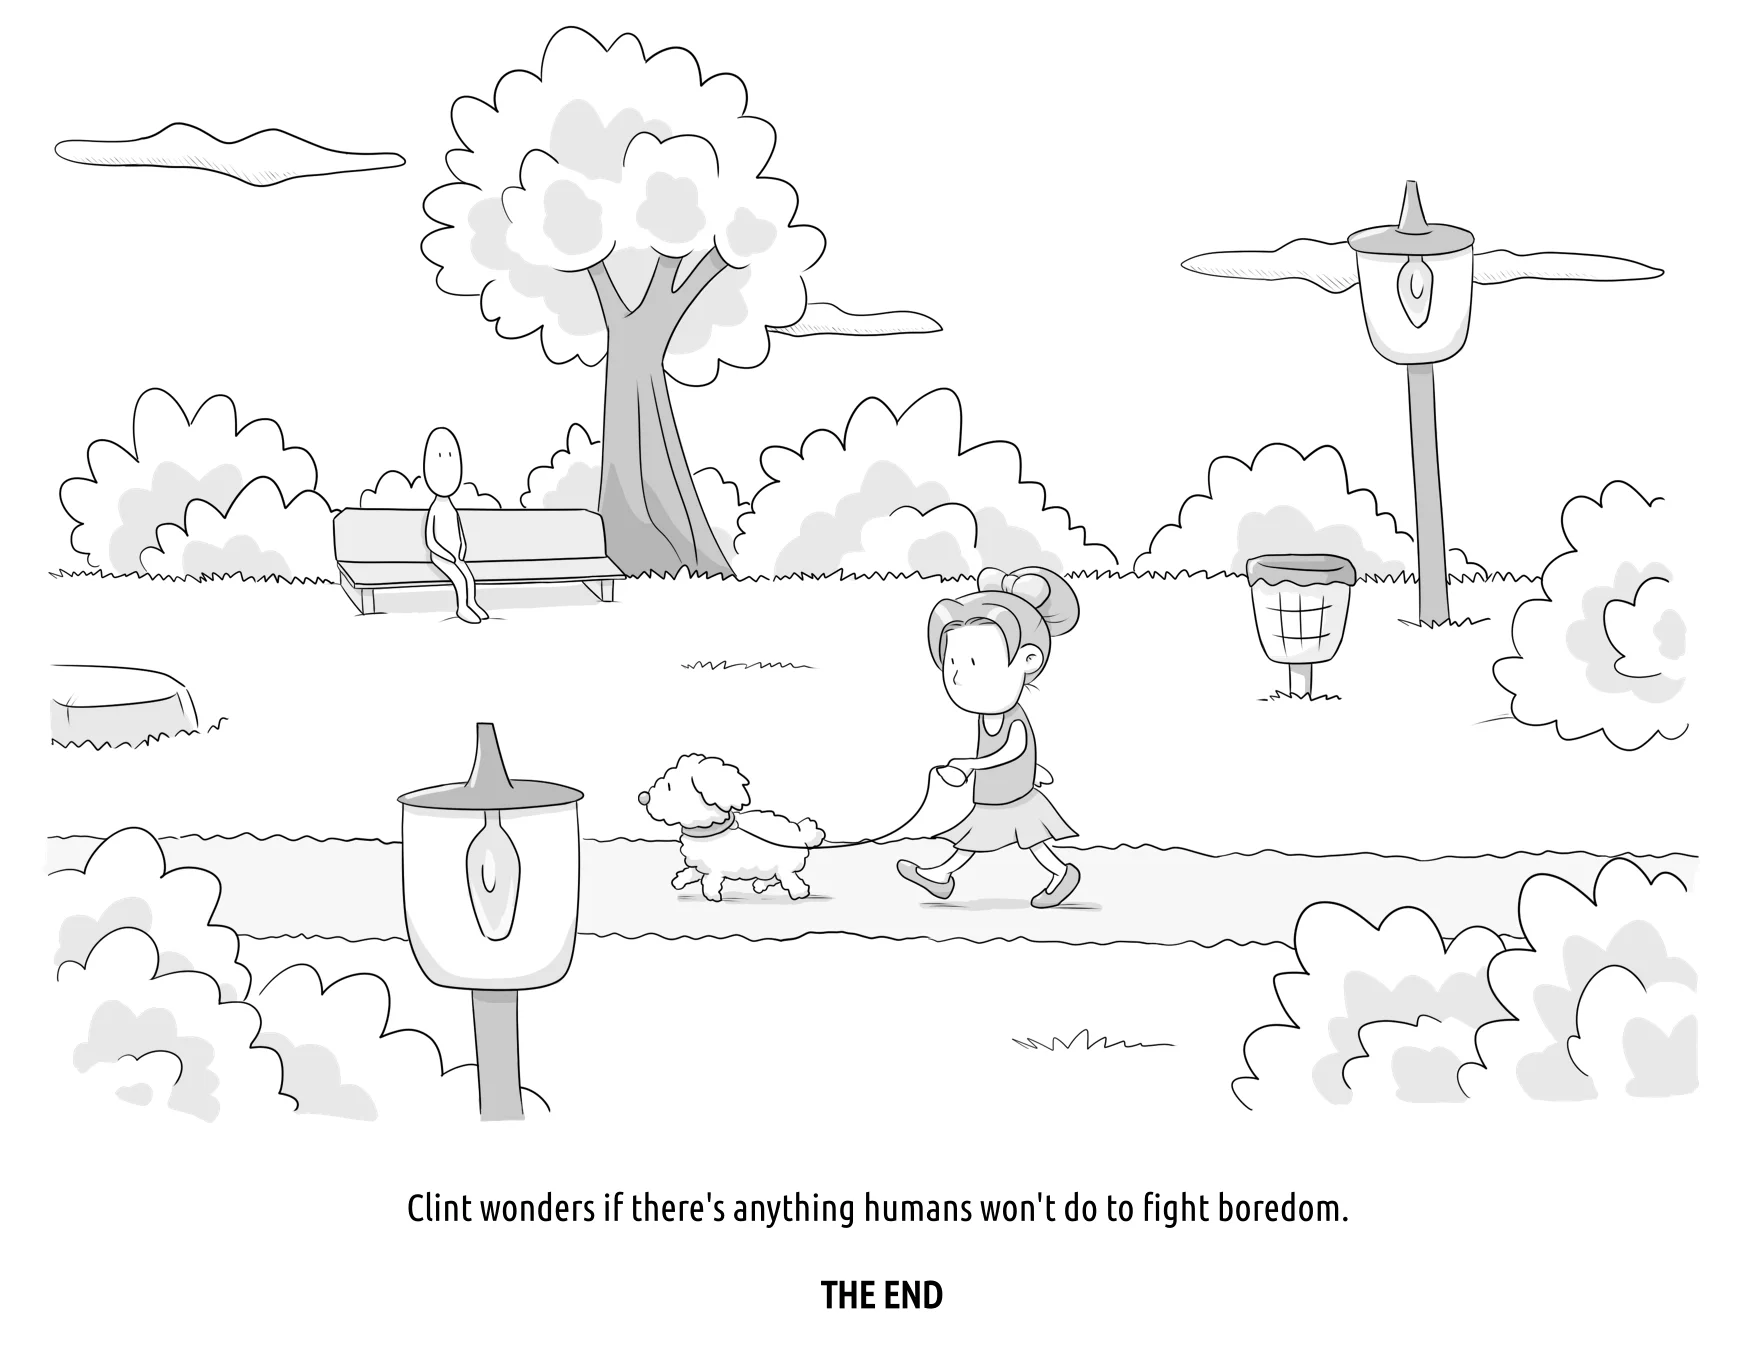
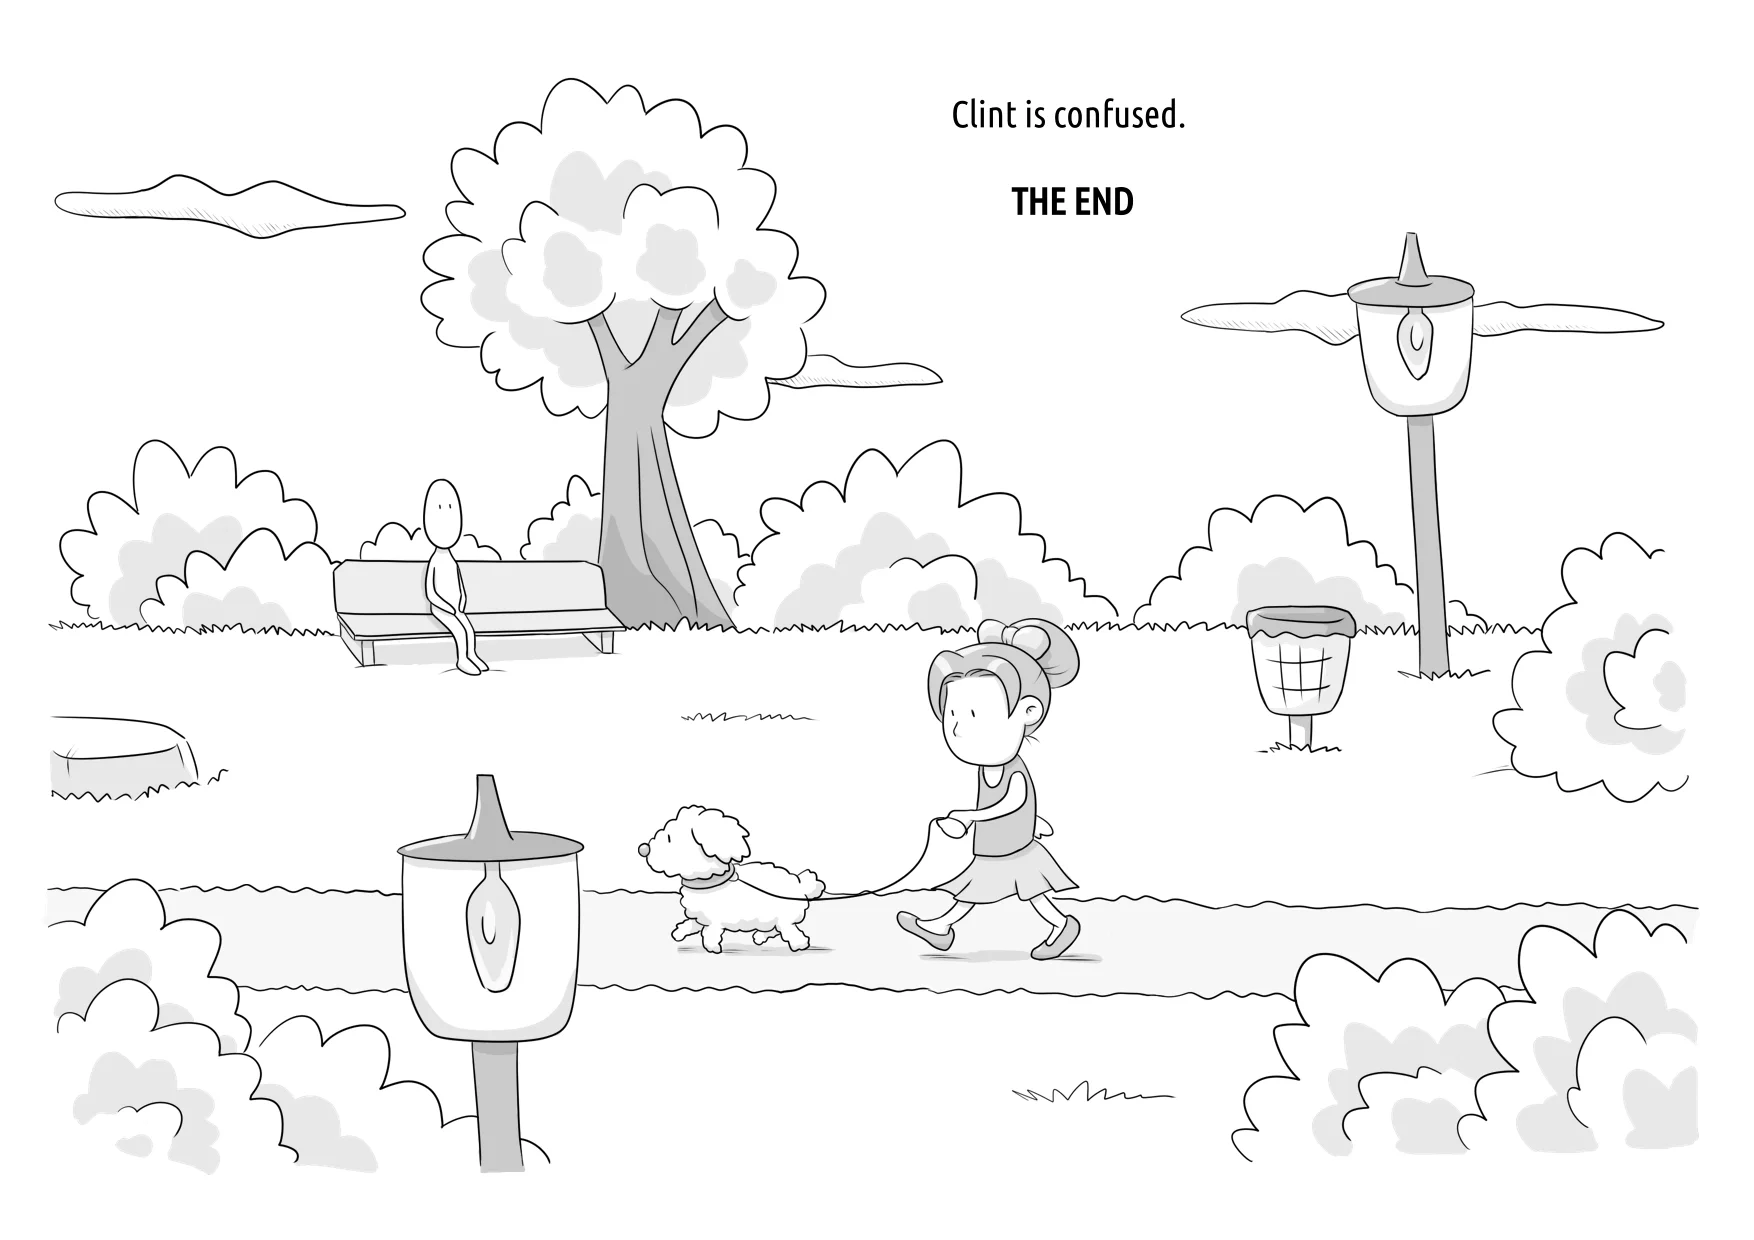
Clint

diff --git a/content/en/gallery/2023/clint-2/index.md b/content/en/gallery/2023/clint-2/index.md
@@ -6,6 +6,6 @@ categories: [ Dibuixos ]
 image: cover.webp
 ---
 
-Quan viatges a altres planetes a vegades no queda clar quina és l'espècie dominant. A vegades no cal viatjar a altres planetes per a no tenir clar res.
+Quan viatges a altres planetes a vegades no queda clar què està passant. A vegades viatges a altres planetes amb l'esperança de que allà entendràs alguna cosa. En qualsevol cas, un dia menys.
 
 ![](clint-2.webp "Clint - Busywork")

diff --git a/content/en/gallery/2023/clint-1/index.md b/content/en/gallery/2023/clint-1/index.md
@@ -6,6 +6,6 @@ categories: [ Dibuixos ]
 image: cover.webp
 ---
 
-Quan estàs avorrit fas qualsevol cosa, com viajar a un altre planeta, o dibuixar.
+Quan estàs avorrit fas qualsevol cosa, com viajar a altres planetes, o dibuixar.
 
 ![](clint-1.webp "Clint - You are here")
